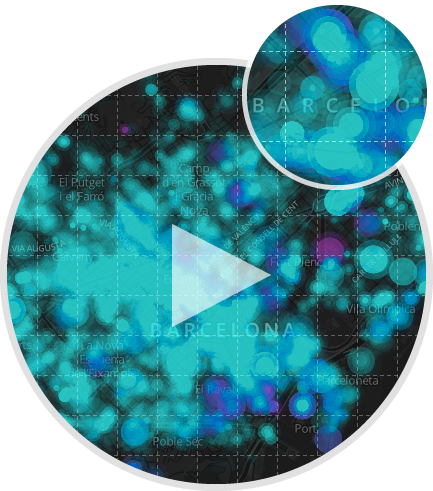
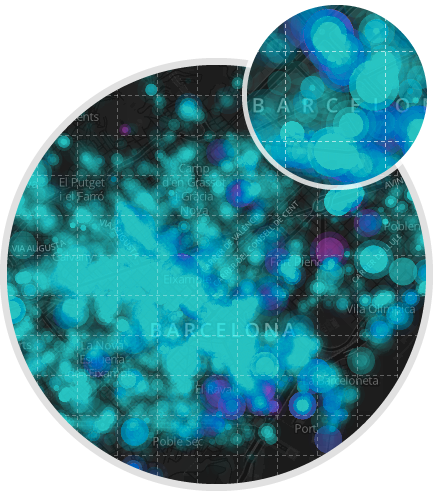
fixing loading

Changed region(s): [[0.3903, 0.4582, 0.6305, 0.6721]]

diff --git a/css/style.css b/css/style.css
@@ -74,7 +74,9 @@ body{font-family: 'proxima_novasemibold', Helvetica, Arial, Sans-serif; margin: 
 #cover{position: absolute; top: 0; left: 0; width: 100%; height: 100%; background-color: rgba(255,255,255,0.91); z-index: 4; text-align: center;}
 #cover .wrapper{width: 1066px; height: 500px; text-align: left; margin: 105px auto 0 auto;}
 #cover .wrapper .preview{width: 480px; height: 100%; display: inline-block; vertical-align: top; zoom: 1; *display: inline; background: transparent url('../assets/img/coverImg.png') 0 0 no-repeat;}
-#cover .wrapper .preview:hover{ cursor: pointer; }
+#cover .wrapper .preview:hover{cursor: pointer; }
+#cover .wrapper .preview .spinner{position: absolute; top: 276px; left:216px;}
+#cover .wrapper .preview .playBtn{margin: 223px 0 0 170px; border: none; display: none;}
 #cover .wrapper .textBlock{width: 580px; display: inline-block; vertical-align: top; zoom: 1; *display: inline; margin: 66px 0 0 0; font-family: 'proxima_novasemibold', Helvetica, Arial, Sans-serif; color: #333;}
 #cover .wrapper .textBlock h1{font-family: 'proxima_nova_rgbold', Helvetica, Arial, Sans-serif; font-size: 51px; letter-spacing: -1px; line-height: 51px; margin: 0 0 20px 0;}
 #cover .wrapper .textBlock h2{font-size: 23px; font-weight: normal; margin: 0 0 26px 0;}

diff --git a/js/app.js b/js/app.js
@@ -15,6 +15,25 @@ var staticMapsURLs = {
   staticDefault: 'js/viz.json'
 }
 
+var opts = {
+  lines: 15, // The number of lines to draw
+  length: 12, // The length of each line
+  width: 8, // The line thickness
+  radius: 50, // The radius of the inner circle
+  corners: 1, // Corner roundness (0..1)
+  rotate: 0, // The rotation offset
+  color: '#fff', // #rgb or #rrggbb
+  speed: 1, // Rounds per second
+  trail: 60, // Afterglow percentage
+  shadow: false, // Whether to render a shadow
+  hwaccel: false, // Whether to use hardware acceleration
+  className: 'spinner', // The CSS class to assign to the spinner
+  zIndex: 2e9, // The z-index (defaults to 2000000000)
+  top: 'auto', // Top position relative to parent in px
+  left: 'auto' // Left position relative to parent in px
+};
+var spinner = new Spinner(opts).spin();
+document.getElementById('bigImg').appendChild(spinner.el);
 
 /** 
  * map class
@@ -228,8 +247,8 @@ mapL.init(function() {
     var loaded = function() {
       if(!--c) {
         $('#cover').bind('click', toggleCover);
-        $('.loading').hide();
-        $('.preview').fadeIn();
+        spinner.stop();
+        $('.playBtn').fadeIn();
       }
     }
 
@@ -530,4 +549,7 @@ function toggleCover(e){
   }
   animation.toggle();
 }
+
+
+
 

diff --git a/index.html b/index.html
@@ -77,8 +77,9 @@
 
     <div id="cover">
       <div class="wrapper">
-        <div class="preview" style="display: none"></div>
-        <div class="loading">LOADING</div>
+        <div class="preview" id="bigImg">
+          <img src="assets/img/playBtn.png" class="playBtn"/>
+        </div>
         <div class="textBlock">
           <h1>The economic effect of the MWC on Barcelona.</h1>
           <h2>A visual analysis of credit card transactions before and during Mobile World Congress to reveal the economic impact on the city.</h2>
